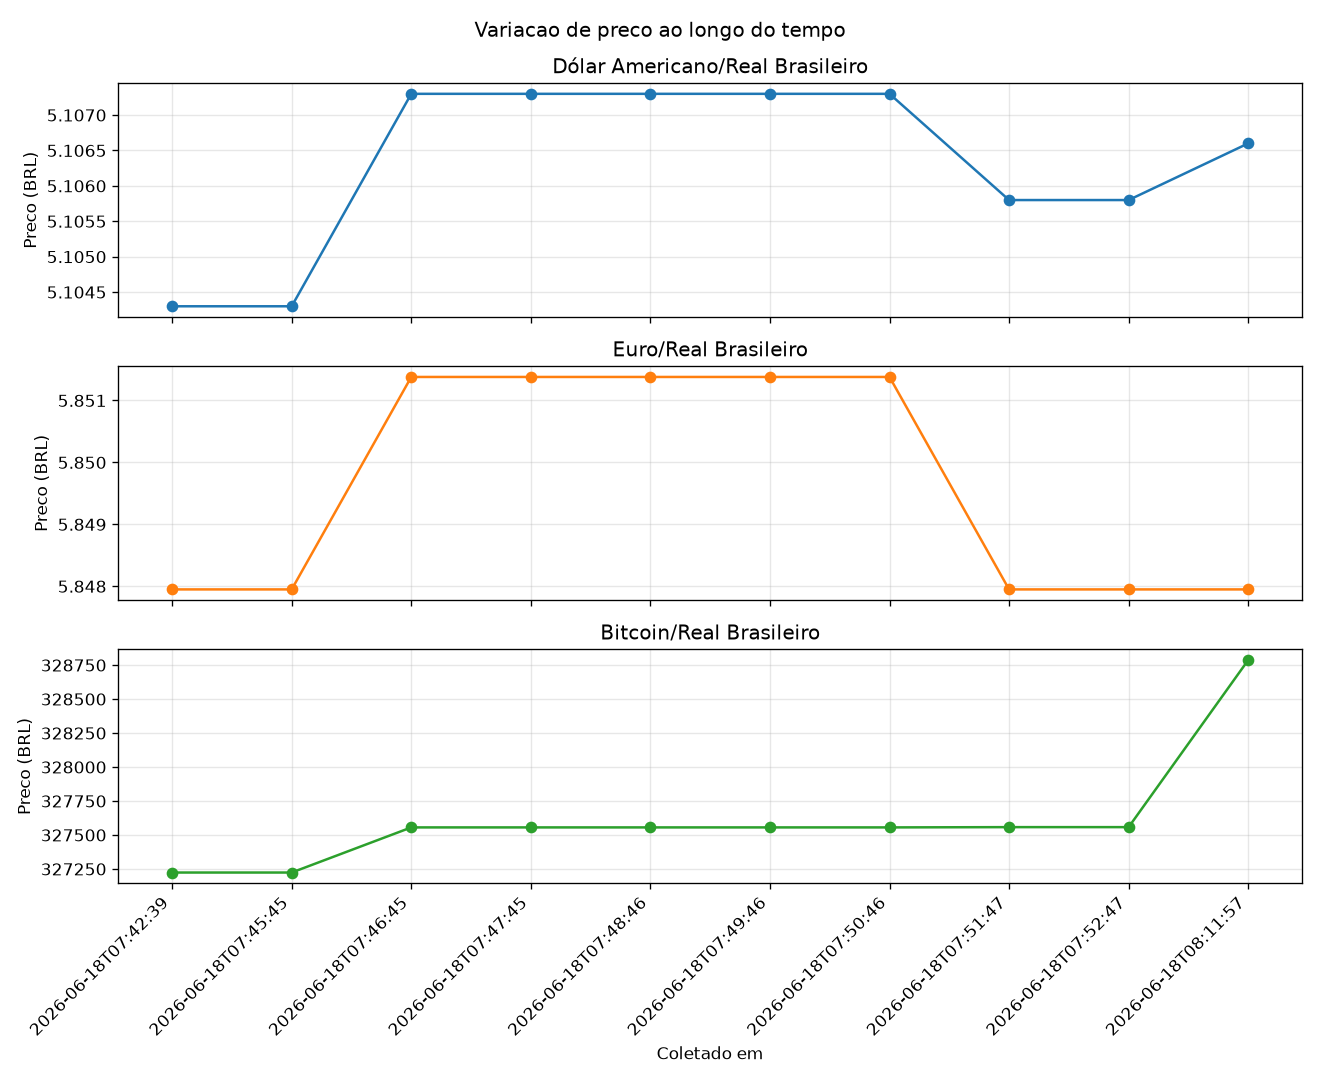
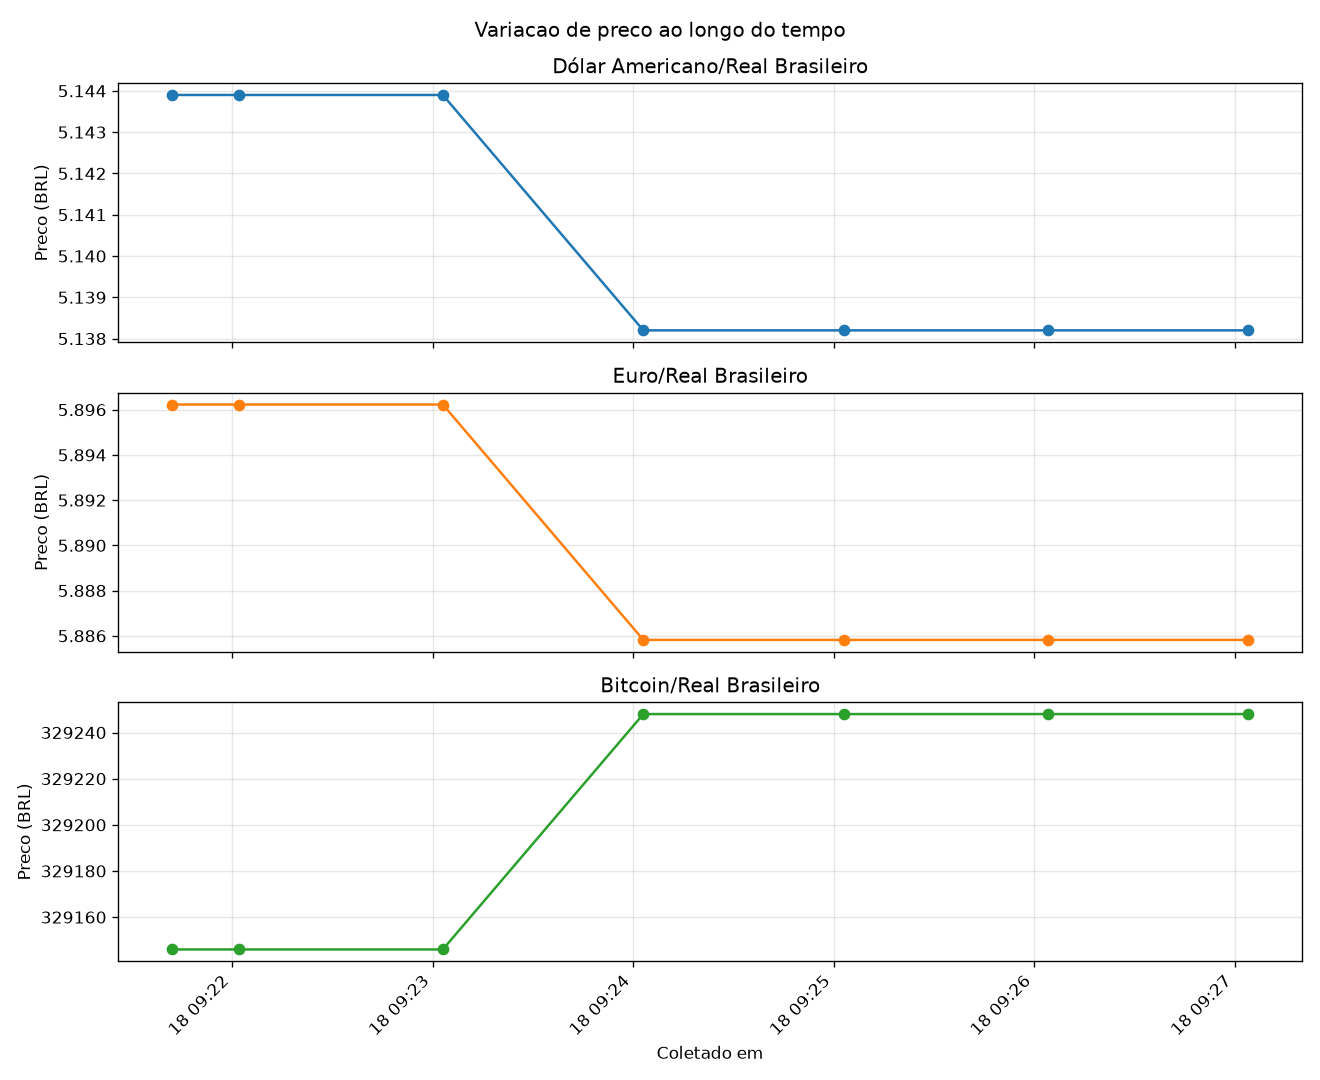
Migra de SQLite para PostgreSQL (psycopg + .env)

diff --git a/src/db.py b/src/db.py
@@ -1,36 +1,42 @@
-import sqlite3
-from pathlib import Path
+import os
+import psycopg
+from psycopg.rows import dict_row
+from dotenv import load_dotenv
 
-DB_PATH = Path(__file__).resolve().parent.parent / "data" / "precos.db"
+load_dotenv()   # carrega as variaveis do arquivo .env
 
 
 def get_connection():
-    """Abre uma conexão com o banco SQLite."""
-    conn = sqlite3.connect(DB_PATH)
-    conn.execute("PRAGMA journal_mode=WAL;")
-    conn.row_factory = sqlite3.Row
-    return conn
+    """Abre uma conexao com o PostgreSQL."""
+    return psycopg.connect(
+        host=os.environ.get("DB_HOST", "localhost"),
+        dbname=os.environ.get("DB_NAME", "etl_ofertas"),
+        user=os.environ.get("DB_USER", "adalton"),
+        password=os.environ["DB_PASSWORD"],
+        row_factory=dict_row,
+    )
 
 
 def init_db():
-    """Cria a tabela e o índice, se ainda não existirem."""
+    """Cria a tabela e o indice, se ainda nao existirem."""
     conn = get_connection()
-    conn.execute("""
-        CREATE TABLE IF NOT EXISTS precos (
-            id          INTEGER PRIMARY KEY AUTOINCREMENT,
-            produto     TEXT    NOT NULL,
-            preco       REAL    NOT NULL,
-            moeda       TEXT    NOT NULL DEFAULT 'BRL',
-            coletado_em TEXT    NOT NULL
-        );
-    """)
-    conn.execute("""
-        CREATE INDEX IF NOT EXISTS idx_precos_produto_data
-        ON precos (produto, coletado_em);
-    """)
+    with conn.cursor() as cur:
+        cur.execute("""
+            CREATE TABLE IF NOT EXISTS precos (
+                id          SERIAL PRIMARY KEY,
+                produto     TEXT NOT NULL,
+                preco       DOUBLE PRECISION NOT NULL,
+                moeda       TEXT NOT NULL DEFAULT 'BRL',
+                coletado_em TIMESTAMP NOT NULL
+            );
+        """)
+        cur.execute("""
+            CREATE INDEX IF NOT EXISTS idx_precos_produto_data
+            ON precos (produto, coletado_em);
+        """)
     conn.commit()
     conn.close()
-    print(f"Banco pronto em: {DB_PATH}")
+    print("Tabela 'precos' pronta no PostgreSQL.")
 
 
 if __name__ == "__main__":

diff --git a/src/load.py b/src/load.py
@@ -4,15 +4,16 @@ from db import get_connection
 
 def carregar_precos(itens):
     """Grava uma lista de itens no banco, com carimbo de data/hora."""
-    agora = datetime.now().isoformat(timespec="seconds")
+    agora = datetime.now().replace(microsecond=0)
     conn = get_connection()
-    conn.executemany(
-        """
-        INSERT INTO precos (produto, preco, moeda, coletado_em)
-        VALUES (?, ?, ?, ?)
-        """,
-        [(i["produto"], i["preco"], i["moeda"], agora) for i in itens],
-    )
+    with conn.cursor() as cur:
+        cur.executemany(
+            """
+            INSERT INTO precos (produto, preco, moeda, coletado_em)
+            VALUES (%s, %s, %s, %s)
+            """,
+            [(i["produto"], i["preco"], i["moeda"], agora) for i in itens],
+        )
     conn.commit()
     conn.close()
     print(f"{len(itens)} registros gravados em {agora}")

diff --git a/src/report.py b/src/report.py
@@ -12,10 +12,10 @@ def relatorio_texto():
     conn = get_connection()
     linhas = conn.execute("""
         SELECT produto,
-               COUNT(*)             AS coletas,
-               MIN(preco)           AS minimo,
-               MAX(preco)           AS maximo,
-               ROUND(AVG(preco), 4) AS media
+               COUNT(*)                     AS coletas,
+               MIN(preco)                   AS minimo,
+               MAX(preco)                   AS maximo,
+               ROUND(AVG(preco)::numeric, 4) AS media
         FROM precos
         GROUP BY produto
     """).fetchall()
@@ -43,7 +43,6 @@ def grafico_variacao():
     produtos = list(series.keys())
     n = len(produtos)
 
-    # Um painel por produto, cada um com seu proprio eixo Y.
     fig, axes = plt.subplots(n, 1, figsize=(11, 3 * n), sharex=True)
     if n == 1:
         axes = [axes]